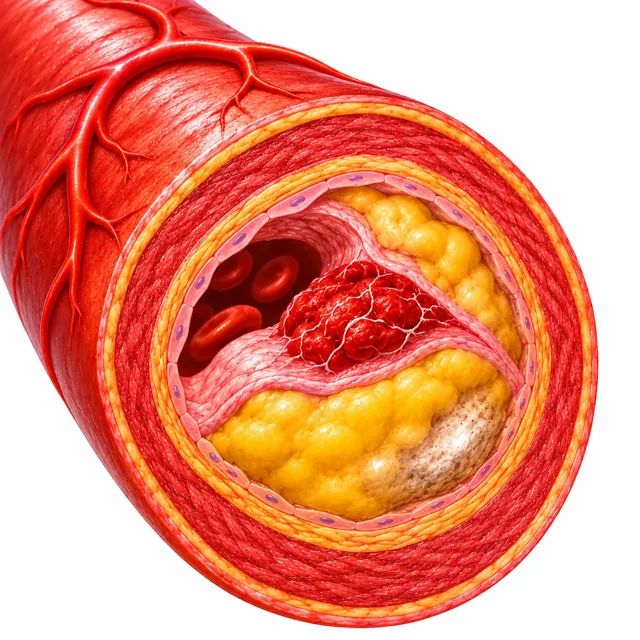
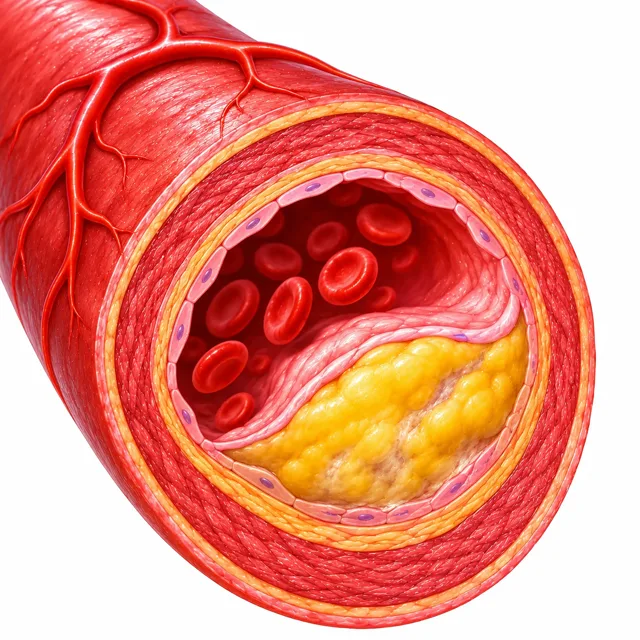
Add conduction and valves illustrations, early plaque stage; update docs

diff --git a/src/gamesA2.js b/src/gamesA2.js
@@ -37,6 +37,7 @@ registerGame({
   teacherNote: 'סעיף 2.1: SA, AV, צרור היס, צרורות הולכה ימני ושמאלי, סיבי פורקינייה (דרישה: זכירת השמות הלועזיים וזיהוי בתרשים). שלבים: סימולציה צעד-צעד, סידור, שאלות.',
   mount(root, ctx) {
     root.insertAdjacentHTML('afterbegin', say('אני לא צריך שום מוח כדי לפעום: יש לי קוצב משלי. בואו נעקוב אחרי האות.', 'happy'));
+    root.insertAdjacentHTML('beforeend', artFigs([['anat_conduction', 'מערכת ההולכה: קוצב SA בעלייה הימנית, צומת AV, צרור היס, ענפי הצרור וסיבי פורקינייה']]));
     runStages(root, ctx, [
       { title: 'האות בדרך', run: (box, done) => condSim(box, done) },
       { title: 'סדרו את המסלול', run: (box, done) => orderGame(box, { tag: 'conduction', hint: 'סדרו את מסלול האות החשמלי, מההתחלה ועד התכווצות החדרים.', steps: ['קוצב הלב הראשי (SA)', 'קוצב משני (AV)', 'צרור היס', 'צרורות הולכה ימני ושמאלי', 'סיבי פורקינייה'], onDone: done }) },

diff --git a/src/vizheart.js b/src/vizheart.js
@@ -93,7 +93,7 @@ function useImage(key, img, ratio, maxW, pts) {
   S.parts.forEach((p, i) => { p.x = pts[i][0]; p.y = pts[i][1]; });
 }
 useImage('chambers', 'anat_heart_cut', 900 / 818, 420, [[25, 41], [33, 63], [66, 37], [64, 68], [50, 66]]);
-useImage('valves', 'anat_heart_cut', 900 / 818, 420, [[33, 50], [62, 46], [53, 30], [36, 27]]);
+useImage('valves', 'anat_valves', 1, 380, [[27, 62], [73, 64], [48, 42], [48, 14]]);
 useImage('vessels', 'anat_heart', 900 / 850, 400, [[47, 14], [50, 29], [28, 8], [29, 89], [15, 41]]);
 useImage('coronary', 'anat_coronary', 1, 400, [[39, 17], [48, 34], [27, 46], [57, 53]]);
 

diff --git a/PROJECT_STATUS.md b/PROJECT_STATUS.md
@@ -68,8 +68,7 @@
 
 ## בעיות / מגבלות ידועות
 - נקודות התוויות במשחקי הגרירה (חדרים, מסתמים, כלי דם, כליליים) כוילו על התמונות החדשות בעין (אחוזים), ונבדקו חזותית בטלפון בלבד. תרשימי הקוד נשארו רק לפעימת הא.ק.ג.
-- `anat_conduction` (יש בה מקרא בעברית בתוך התמונה) ו-`anat_valves` (פריסה לא תואמת לאטלס) לא חוברו. בפרומפטים סבב 2 יש פרומפטים חלופיים.
-- `plaque_2` ו-`plaque_3` דומים זה לזה.
+- פריסת המסתמים ב-`anat_valves` (עורק הריאה למעלה, אבי העורקים במרכז, תלת-צניפי משמאל ודו-צניפי מימין) לא אומתה מול הספר או אטלס.
 - קוד התוצאות החדש `CL1:` אינו תואם לקודים של הכלים הקודמים.
 - מסקוט "לבבון" ושמו לאישורך.
 - אין הגנה אמיתית על התשובות בקובץ המורה (כמו בכלים הקודמים).
@@ -96,6 +95,7 @@ node tools/validate_labs.mjs    # בדיקת מחולל המטופלים
 - איורים: `tools/convert_art.mjs` (דורש ffmpeg) ממיר מהתיקייה "איורים ללב" אל `art/`.
 
 ## עדכונים לפי סבבים
+- **סבב 6ב (15.11.2026): השלמת האיורים.** התקבלו `anat_conduction` (בלי טקסט), `anat_valves` (פריסה חדשה) ושלב מוקדם של פלאק. `anat_valves` משמש עכשיו את תוויות המסתמים (נבדק חזותית), `anat_conduction` מוצג בתחילת משחק ההולכה, ושלבי הפלאק הם: תקין, שלב מוקדם, היצרות, סתימה בקריש. נבדק: בנייה, בוט 36 משחקים ב-100%. לא נבדק: טלפון אמיתי, מצב כהה, רופא.
 - **סבב 6 (15.11.2026): חיבור האיורים.** נקלטו 40 איורים מתיקיית `תמונות לקרדיו` (`tools/map_new_art.mjs`, מיפוי לפי תחילית שם הקובץ ל-`art/`): 5 מצבי מסקוט, רקע ראשי, 3 מדריכים, אנטומיה, פלאק בארבעה שלבים, אוטם, גוף, אקו, צילום חזה, CT מוח, 10 אווטארים ושלוש תמונות בדיקה גופנית. במשחקי הגרירה (חדרים ומסתמים על חתך הלב, כלי דם, כליליים) הוחלפו התרשימים בתמונות והנקודות כוילו מחדש. נוסף `artFigs` להצגת תמונות במשחקים: אוטם, אי-ספיקה (צילום ואקו), אירוע מוחי (CT), טרשת בגוף שלם, שכבות הדופן ופלאק. נבדק: בנייה, בוט (כל המשחקים 100%, בלי שגיאות קונסול), תצוגת טלפון של משחקי הגרירה, אי-ספיקה וחלק ג'. לא נבדק: טלפון אמיתי, מצב כהה, תמונות מול רופא. לא חוברו: `anat_conduction`, `anat_valves` (ראו בעיות ידועות).
 - **סבב 5ב (15.11.2026): איזון אורך התשובות בחלק ג'.** קוצרו 10 תשובות נכונות במקרי חלק ג'. התשובה הנכונה הייתה הארוכה ב-11 מתוך 20 קבוצות, עכשיו ב-1 מתוך 20 (מתחת ל-25% של הגרלה, כלומר כעת היא נוטה להיות קצרה יחסית). נבדק: תחביר, בנייה, מחולל, בוט על 36 משחקים (100%, בלי שגיאות).
 - **סבב 5 (15.11.2026): איזון אורך התשובות בחלק א'.** קוצרו תשובות נכונות והוארכו מסיחים שגויים ב-73 ניסוחים במשחקים A1, A2, A3, A5, A6 (בלי לשנות את המשמעות). בהגרלה של 4 תשובות 25% הן הארוכות; בחלק א' התשובה הנכונה הייתה הארוכה ב-55% מהשאלות, עכשיו ב-42%. בשאלת הכליה והלחץ הועברה אזכור מערכת רנין-אנגיוטנסין להסבר. נבדק: תחביר, בנייה, בדיקת מחולל, בוט על כל 36 המשחקים (100%, בלי שגיאות קונסול). לא נבדק: חלק ג' ואיזון בו לא נבדקו מחדש, טלפון אמיתי, קרדיולוג.

diff --git a/דוח_סתירות_ודילמות.md b/דוח_סתירות_ודילמות.md
@@ -40,7 +40,7 @@
 
 1. **הפרק "ויסות לחץ דם" (פרק 9 בתשפ"ו):** בוצע בסבב 4, משחק `a_bpreg`.
 2. **פלסמת הדם ותפקידיה (1.1):** הוחלט לא להכניס (סבב 4). נשארת בהזכרה קצרה.
-3. **איורים:** נקלטו בסבב 6 (40 איורים). נשארו בקוד רק פעימת הא.ק.ג והסימולטורים. חסרים `anat_conduction` ו-`anat_valves` (ראה `פרומפטים_איורים_סבב1.md`, סבב 2).
+3. **איורים:** נקלטו בסבב 6 (42 איורים). נשארו בקוד רק פעימת הא.ק.ג והסימולטורים.
 4. **BNP** אינו בשום מקור, ולא נכלל בכלי.
 5. **דיגוקסין וחוסמי תעלות סידן** לא נכללו כמשחק, כדי להישאר ברשימת התרופות של תשפ"ז. חוסמי סידן מופיעים במשחק `a_bpreg`.
 6. **שם הדמות:** "לבבון" (כרגע דמות SVG בקוד, לב עם משקפיים). לאישורך.

diff --git a/פרומפטים_איורים_סבב1.md b/פרומפטים_איורים_סבב1.md
@@ -97,3 +97,5 @@
 ## מה נעשה עם שאר התמונות
 - חוברו: 5 מצבי מסקוט, רקע ראשי, 3 מדריכים, `anat_heart`, `anat_heart_cut`, `anat_coronary`, `anat_vessels`, 4 שלבי פלאק, `mi_heart`, `body_athero`, אקו (2), צילום חזה (2), CT מוח (3), 10 מטופלים, 3 תמונות בדיקה גופנית.
 - בתיקייה נשארו כפולים וחלופות שלא נבחרו (אפשר להשאיר או למחוק): מסקוט "חושב" שני, תמונת אוטם שנייה, צילום חזה נוסף, אקו נוסף, CT איסכמי כפול, גוף עם טקסט בעברית.
+
+**עדכון:** שלושת האיורים מהרשימה (`anat_conduction`, `anat_valves`, שלב מוקדם של `plaque_2`) התקבלו וחוברו. אין כרגע איורים חסרים.
